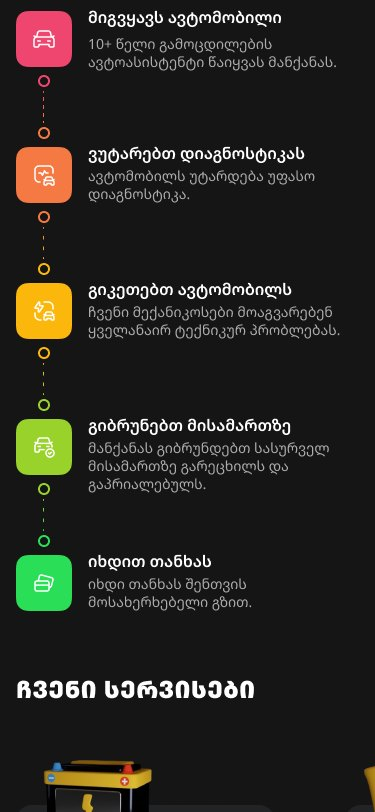
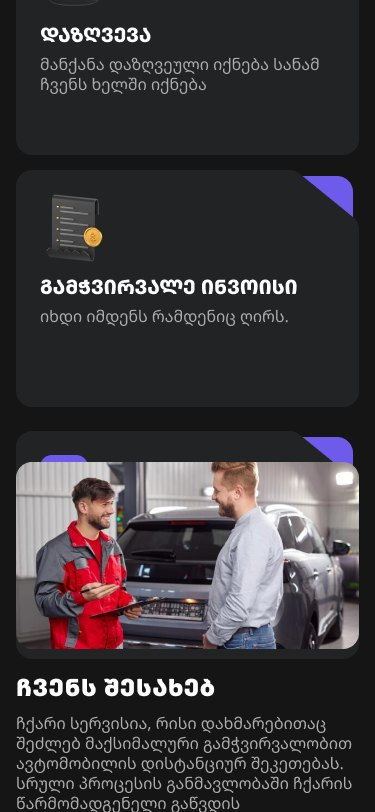
Chkari mobile crops: re-slice to content-dense windows (no empty space)
Form/footer regions were sparse; phones now show hero+features, trust
cards+about, and services+how-it-works — all full-bleed content.

diff --git a/projects/chkari.html b/projects/chkari.html
@@ -174,9 +174,9 @@
   <p>The service is booked from a single lead form, so the whole page had to hold up from a 1920px desktop hero down to a 375px phone — same story, re-flowed for each hand. I designed and handed off all three breakpoints.</p>
   <div class="cs-showcase amber">
     <div class="cs-phones">
-      <div class="cs-device"><img src="../assets/case/chkari/m-v1.jpg" alt="Chkari mobile — hero and how-it-works" loading="lazy"></div>
-      <div class="cs-device lift"><img src="../assets/case/chkari/m-v2.jpg" alt="Chkari mobile — trust features" loading="lazy"></div>
-      <div class="cs-device"><img src="../assets/case/chkari/m-v3.jpg" alt="Chkari mobile — booking form and FAQ" loading="lazy"></div>
+      <div class="cs-device"><img src="../assets/case/chkari/m-v1.jpg" alt="Chkari mobile — hero and feature cards" loading="lazy"></div>
+      <div class="cs-device lift"><img src="../assets/case/chkari/m-v2.jpg" alt="Chkari mobile — trust cards and about section" loading="lazy"></div>
+      <div class="cs-device"><img src="../assets/case/chkari/m-v3.jpg" alt="Chkari mobile — services and how-it-works" loading="lazy"></div>
     </div>
   </div>
   <figure class="cs-fig"><img src="../assets/case/chkari/ipad.jpg" alt="Chkari tablet layout" loading="lazy" style="border-radius:14px"><figcaption>The tablet layout — the middle breakpoint that most landing pages skip, designed explicitly.</figcaption></figure>